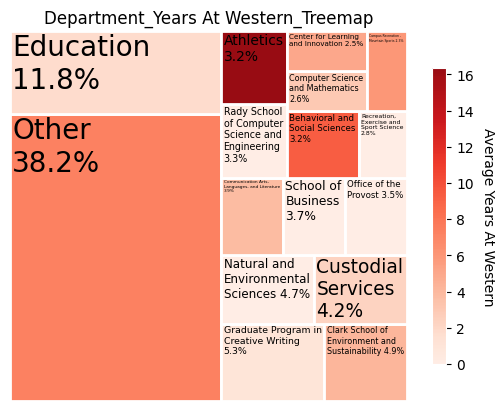
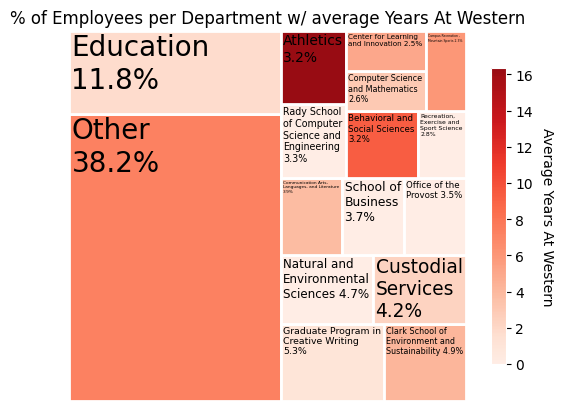
Fixed login

diff --git a/templates/login.html b/templates/login.html
@@ -7,16 +7,10 @@
       border: 3px solid #ccc;
       padding: 20px;
       text-align: center;
-<<<<<<< HEAD
-      display: grid;
-      place-items: center;
-      height: 80%;
-=======
       border-radius: 15px;
       width: 30%;
       max-width: 400px;
       margin: auto;
->>>>>>> test_blake_nate_merge
     }
 
     form {
@@ -26,8 +20,6 @@
       align-items: flex-start;
     }
 
-<<<<<<< HEAD
-=======
     label {
       margin-bottom: 5px;
     }
@@ -58,18 +50,10 @@
     .submit:hover{
         background-color: #9a9a9a;
     }
->>>>>>> test_blake_nate_merge
 
 </style>
 <div class="login-form-container">
     <form action="/login" method="POST">
-<<<<<<< HEAD
-        <h1>Login</h1>
-        <input type='input' name='email' placeholder="Email"><br>
-        <input type='input' name='pWord' placeholder="Password"><br>
-        <br>
-        <input type="submit" value="Submit">
-=======
         <label><b>Email
         </b>
         </label>
@@ -81,7 +65,6 @@
         <input type="input" name="pWord" class="pWord" placeholder="Password">
         <br><br>
         <input type="submit" class="submit" value="Login">
->>>>>>> test_blake_nate_merge
     </form>
 </div>
 {% endblock %}

diff --git a/createGraphs.py b/createGraphs.py
@@ -188,6 +188,7 @@ def treemap(mainColumnName, secondaryColumnName, fileName, customTitle, useQuant
     ax.axis('off')
     plt.axis("off")
     genericTitle = "Average " + secondaryColumnName + " Per " + mainColumnName
+    genericTitle = "% of Employees per " + mainColumnName + " w/ average " + secondaryColumnName
     saveImage(fileName,fig, genericTitle, customTitle)
     return description
 
